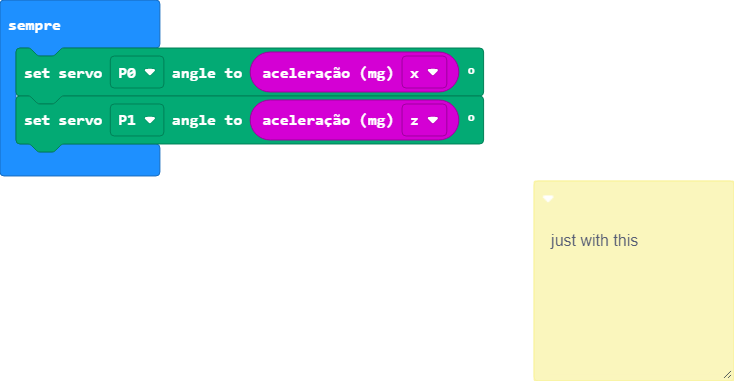
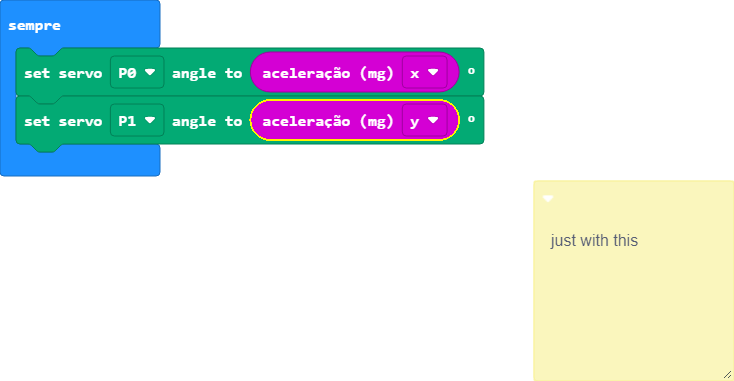
Atualizar 'main.blocks, main.ts'

diff --git a/main.ts b/main.ts
@@ -3,5 +3,5 @@
  */
 basic.forever(function () {
     servos.P0.setAngle(input.acceleration(Dimension.X))
-    servos.P1.setAngle(input.acceleration(Dimension.Z))
+    servos.P1.setAngle(input.acceleration(Dimension.Y))
 })
